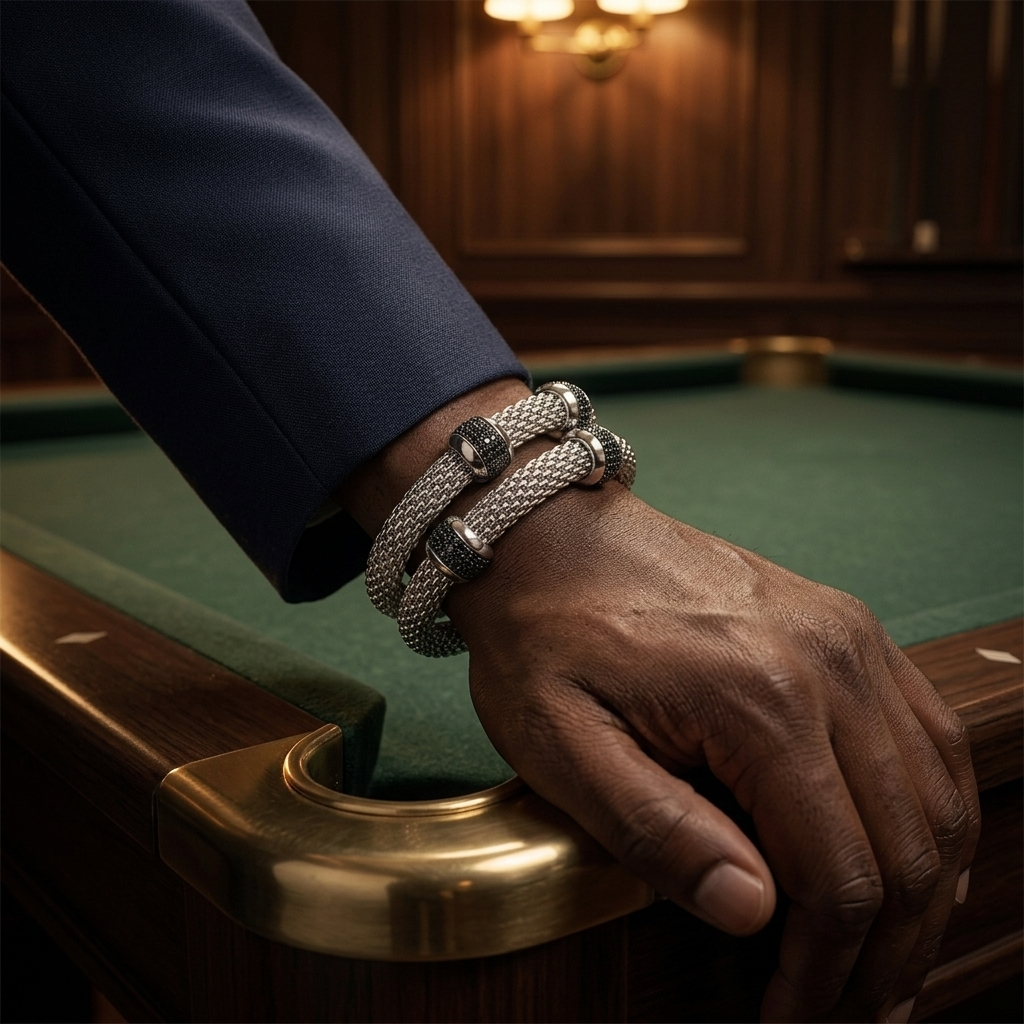
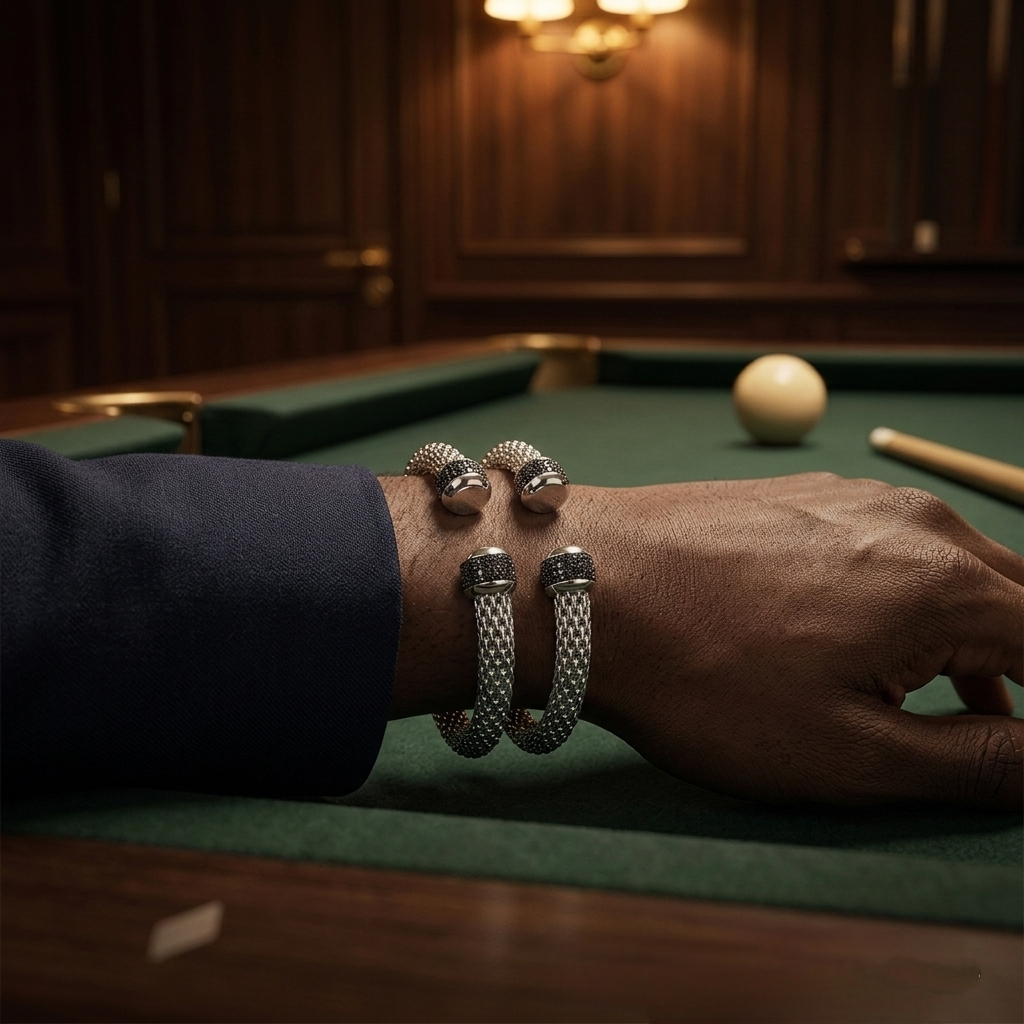
auto-commit for e5a2164d-bee8-4c5e-9aef-081621abe954

diff --git a/frontend/src/data/products.js b/frontend/src/data/products.js
@@ -2551,20 +2551,22 @@ This is expression — under control.`,
     },
 
     // STRICT CAMPAIGN LOCK — 7 approved angles, exact order:
+    // DESIGN: SLIP-ON OPEN CUFF (C-shape) with EXACTLY TWO black-diamond pavé
+    //         END CAPS at the open terminals. NO middle pavé, NO third station.
     // 1. HERO STACK         — two cuffs on pool table (user's authentic photo)
-    // 2. SINGLE HERO OBJECT — single cuff on green felt, low 3/4
-    // 3. ON-WRIST ONE       — Black model, navy/black wardrobe, ONE cuff
-    // 4. DOUBLE STACK WRIST — Black model, TWO cuffs stacked, billiard table
-    // 5. MACRO DETAIL       — woven texture + black pavé cap close-up
-    // 6. SIDE PROFILE       — low side angle, cuff thickness + structure
-    // 7. LIFESTYLE TABLE    — single cuff w/ cue + whiskey + blurred ball
+    // 2. SINGLE HERO OBJECT — single open cuff on green felt, low 3/4
+    // 3. ON-WRIST ONE       — Black model, navy/black wardrobe, ONE open cuff
+    // 4. DOUBLE STACK WRIST — Black model, TWO open cuffs stacked, billiard table
+    // 5. MACRO DETAIL       — close-up of one black-diamond end cap meeting the weave
+    // 6. SIDE PROFILE       — low side angle showing the C-shape and both end caps
+    // 7. LIFESTYLE TABLE    — single open cuff w/ cue + whiskey + blurred ball
     gallery: [
       { src: "/midweek/01_hero.png",            alt: "MIDWEEK — hero stack on pool table" },
-      { src: "/midweek/02_single_felt.png",     alt: "MIDWEEK — single cuff on green felt" },
-      { src: "/midweek/03_on_wrist_solo.png",   alt: "MIDWEEK — on-wrist editorial (solo)" },
+      { src: "/midweek/02_single_felt.png",     alt: "MIDWEEK — single open cuff on green felt" },
+      { src: "/midweek/03_on_wrist_solo.png",   alt: "MIDWEEK — on-wrist editorial (solo, slip-on)" },
       { src: "/midweek/04_on_wrist_stack.png",  alt: "MIDWEEK — double stack on wrist" },
-      { src: "/midweek/04_macro.png",           alt: "MIDWEEK — macro detail (black-diamond barrel)" },
-      { src: "/midweek/05_detail.png",          alt: "MIDWEEK — side profile (mesh weave structure)" },
+      { src: "/midweek/05_macro.png",           alt: "MIDWEEK — macro detail (black-diamond end cap)" },
+      { src: "/midweek/06_side_profile.png",    alt: "MIDWEEK — side profile (open C-shape)" },
       { src: "/midweek/07_lifestyle_table.png", alt: "MIDWEEK — lifestyle table (cue, whiskey, blurred ball)" },
     ],
 

diff --git a/backend/scripts/generate_midweek_v3.py b/backend/scripts/generate_midweek_v3.py
@@ -1,0 +1,237 @@
+"""
+MIDWEEK v3 — design correction.
+
+NEW design lock:
+  • SLIP-ON OPEN CUFF (C-shape, not a closed bangle)
+  • EXACTLY TWO black-diamond pavé END CAPS — one at each open terminal
+  • NO middle pavé, NO third or fourth station, NO beads around the body
+  • Continuous polished sterling silver woven mesh body between the two caps
+
+Regen targets (all 6 AI shots — slot 1 user photo is preserved):
+  02_single_felt        — single cuff on green felt, low 3/4
+  03_on_wrist_solo      — Black model, 1 slip-on cuff, navy/black wardrobe
+  04_on_wrist_stack     — Black model, 2 slip-on cuffs stacked
+  05_macro              — macro on one end cap meeting the weave
+  06_side_profile       — low side angle showing the C-shape and both end caps
+  07_lifestyle_table    — single cuff with cue + whiskey + blurred ball
+"""
+from __future__ import annotations
+
+import asyncio
+import base64
+import os
+import sys
+import uuid
+from pathlib import Path
+
+from dotenv import load_dotenv
+from emergentintegrations.llm.chat import LlmChat, UserMessage, ImageContent
+
+load_dotenv("/app/backend/.env")
+
+REF = Path("/app/frontend/public/midweek/_reference.png")
+OUT_DIR = Path("/app/frontend/public/midweek")
+
+PRODUCT_LOCK = (
+    "MIDWEEK CUFF — strict design lock. The reference image is for SILVER "
+    "WEAVE TEXTURE only — IGNORE the number and placement of any pavé "
+    "sections in the reference. The actual product is:\n\n"
+    "FORM: SLIP-ON OPEN CUFF, C-shape. The cuff is NOT a closed circular "
+    "bangle. It has two visible OPEN ENDS where the wearer slips it on / "
+    "off the wrist. There is a deliberate small gap between the two open "
+    "ends.\n\n"
+    "PAVÉ — EXACTLY TWO black-diamond pavé END CAPS:\n"
+    "  • ONE black-diamond pavé cap terminates the LEFT open end of the cuff\n"
+    "  • ONE black-diamond pavé cap terminates the RIGHT open end of the cuff\n"
+    "  • TOTAL: TWO pavé sections, BOTH at the open terminals, NEVER any in "
+    "the middle, NEVER a third or fourth station, NEVER beads around the body.\n\n"
+    "BODY: rugged polished sterling silver woven MESH (round-rope chain-mail "
+    "texture). Continuous silver from end-cap to end-cap with no breaks, no "
+    "extra pavé collars, no middle bands. Bright polished finish.\n\n"
+    "MATERIAL: bright polished sterling silver. NO yellow gold, NO rose gold, "
+    "NO gunmetal."
+)
+
+GLOBAL_STYLE = (
+    "MIDWEEK visual identity: dark billiard-room atmosphere, warm tungsten "
+    "lighting, late-night luxury, quiet masculine confidence — successful "
+    "people disappearing for a few quiet hours midweek.\n\n"
+    "Cinematic shadows, controlled specular highlights on the silver weave, "
+    "preserved silver realism, preserved woven texture detail. Editorial "
+    "men's luxury campaign quality, 8K photoreal.\n\n"
+    "DO NOT: tropical elements, neon club lighting, overexposed silver, "
+    "flashy luxury clichés, unnecessary props, nightlife advertising feel, "
+    "logos, watermarks, text, engravings.\n\n"
+    "FAIL if: more than 2 black-diamond sections appear on any cuff, OR if "
+    "the cuff is rendered as a closed circular bangle without a visible gap."
+)
+
+SHOTS = [
+    {
+        "slug": "02_single_felt",
+        "title": "ANGLE 2 — SINGLE HERO OBJECT",
+        "prompt": (
+            "Single MIDWEEK slip-on cuff isolated alone on deep GREEN BILLIARD "
+            "FELT — no other props in frame. Low 3/4 camera angle slightly "
+            "above the felt. Both BLACK PAVÉ END CAPS clearly visible at the "
+            "two open terminals; the cuff lies with its open gap rotated "
+            "slightly toward camera so both caps catch warm tungsten light. "
+            "Continuous silver weave runs from one cap to the other. Tight "
+            "composition, cuff dominates the frame, soft fall-off into "
+            "darker felt around the edges.\n\n"
+            "RULE: ONE open cuff, EXACTLY TWO end-cap pavé sections, no "
+            "middle pavé."
+        ),
+    },
+    {
+        "slug": "03_on_wrist_solo",
+        "title": "ANGLE 3 — ON-WRIST EDITORIAL (BLACK MODEL, ONE OPEN CUFF)",
+        "prompt": (
+            "Editorial on-wrist photograph of a BLACK MAN wearing ONE slip-on "
+            "MIDWEEK cuff on his wrist. Subject's wardrobe is NAVY or BLACK "
+            "wool — fine knit sleeve or tailored shirt cuff. Posture relaxed "
+            "and natural; the cuff is worn, not displayed. The OPEN GAP of "
+            "the cuff sits at the underside of the wrist (anatomically correct "
+            "for a slip-on cuff). At least ONE black-diamond pavé end cap is "
+            "clearly visible from the camera angle; the second end cap may "
+            "wrap around the wrist out of frame. Silver weave catches a "
+            "single warm rim-light. Warm tungsten lounge background, softly "
+            "out of focus.\n\n"
+            "RULE: ONE open cuff with ONLY two end-cap pavé sections. No "
+            "middle pavé. Subject must be a Black man in navy or black."
+        ),
+    },
+    {
+        "slug": "04_on_wrist_stack",
+        "title": "ANGLE 4 — DOUBLE STACK ON WRIST (BLACK MODEL, TWO OPEN CUFFS)",
+        "prompt": (
+            "Editorial on-wrist photograph of a BLACK MAN wearing TWO MIDWEEK "
+            "slip-on cuffs stacked together on the same wrist. Both cuffs are "
+            "open C-shape; their open gaps are oriented in the SAME DIRECTION "
+            "(both gaps facing the underside of the wrist), giving a clean "
+            "parallel stack. The two cuffs sit close — minimal spacing, "
+            "intentionally stacked. Wrist relaxed on the edge of a deep GREEN "
+            "BILLIARD TABLE; wooden rail of the table partially visible. "
+            "Wardrobe: navy or black wool sleeve, fine and refined. Warm "
+            "tungsten lounge lighting, softly bokeh'd background. The polished "
+            "silver weave of both cuffs catches a single warm rim-light.\n\n"
+            "Each cuff has EXACTLY TWO black-diamond pavé end caps (one at "
+            "each open terminal). NO middle pavé on either cuff.\n\n"
+            "RULE: EXACTLY TWO cuffs on the wrist (one stack of two). Each "
+            "cuff has only TWO end-cap pavé sections. No watch, no other "
+            "jewelry, no cigar, no glass in hand."
+        ),
+    },
+    {
+        "slug": "05_macro",
+        "title": "ANGLE 5 — MACRO DETAIL",
+        "prompt": (
+            "Extreme macro detail of ONE BLACK-DIAMOND PAVÉ END CAP at the "
+            "open terminal of a slip-on MIDWEEK cuff, transitioning into the "
+            "polished sterling silver woven body. Sharp focus on a small "
+            "section of the pavé black diamonds and the polished silver bevel "
+            "where the cap meets the weave. Mesh weave visible behind the "
+            "cap, falling into soft bokeh. Very shallow depth of field. Warm "
+            "directional tungsten reflections. Shows craftsmanship — pavé "
+            "stone density, bevel finishing, weave texture.\n\n"
+            "RULE: only ONE end cap visible (or partial second cap softly "
+            "out of focus in deep bokeh). NO middle pavé visible anywhere "
+            "in the body. Single cuff."
+        ),
+    },
+    {
+        "slug": "06_side_profile",
+        "title": "ANGLE 6 — SIDE PROFILE",
+        "prompt": (
+            "Low side-angle photograph of a single MIDWEEK slip-on cuff on a "
+            "deep walnut or black surface. The C-SHAPE of the open cuff is "
+            "the focal subject — the viewer must immediately read this as a "
+            "slip-on, NOT a closed bangle. BOTH black-diamond end caps are "
+            "visible at the open terminals. Side rim-light skims across the "
+            "polished silver weave, the inner curve casts a deep ambient "
+            "shadow. Shows wearability clarity: cuff thickness, weave depth, "
+            "and end-cap construction.\n\n"
+            "RULE: ONE open C-shape cuff. EXACTLY two end-cap pavé sections. "
+            "The open gap MUST be visible. No middle pavé."
+        ),
+    },
+    {
+        "slug": "07_lifestyle_table",
+        "title": "ANGLE 7 — LIFESTYLE TABLE",
+        "prompt": (
+            "Single MIDWEEK slip-on cuff resting alone on dark GREEN BILLIARD "
+            "FELT. Partially out of focus in the same frame: a wooden CUE "
+            "STICK laid diagonally, a CRYSTAL WHISKEY GLASS catching warm "
+            "tungsten reflection, and a SOFTLY BLURRED billiard ball in the "
+            "distance. The cuff is the BRIGHTEST OBJECT — props recede into "
+            "deep shadow. Both BLACK PAVÉ END CAPS are visible at the open "
+            "terminals; continuous silver weave runs between them. "
+            "Composition restrained, props supporting, not crowding.\n\n"
+            "RULE: ONE open slip-on cuff with EXACTLY two end-cap pavé "
+            "sections. No middle pavé."
+        ),
+    },
+]
+
+
+async def generate_one(api_key: str, ref_b64: str, shot: dict) -> bool:
+    out_path = OUT_DIR / f"{shot['slug']}.png"
+    prompt = (
+        f"{PRODUCT_LOCK}\n\n"
+        f"SHOT — {shot['title']}:\n{shot['prompt']}\n\n"
+        f"GLOBAL STYLE: {GLOBAL_STYLE}"
+    )
+
+    chat = LlmChat(
+        api_key=api_key,
+        session_id=f"midweek-v3-{shot['slug']}-{uuid.uuid4().hex[:8]}",
+        system_message=(
+            "You are a luxury men's editorial campaign photographer. The "
+            "product is a SLIP-ON OPEN CUFF (C-shape) with EXACTLY TWO black-"
+            "diamond pavé end caps at the open terminals — never more, never "
+            "less, never in the middle. The reference image's pavé layout is "
+            "WRONG and should be ignored; only use it for silver weave texture. "
+            "Render the cuff as a slip-on with a visible open gap. No logos, "
+            "no text, no watermark."
+        ),
+    )
+    chat.with_model("gemini", "gemini-3.1-flash-image-preview").with_params(
+        modalities=["image", "text"]
+    )
+
+    msg = UserMessage(text=prompt, file_contents=[ImageContent(ref_b64)])
+    text, images = await chat.send_message_multimodal_response(msg)
+
+    if not images:
+        print(f"[FAIL] {shot['slug']} — no image. text={(text or '')[:200]!r}")
+        return False
+
+    out_path.write_bytes(base64.b64decode(images[0]["data"]))
+    print(f"[ok]   {shot['slug']} -> {out_path} ({out_path.stat().st_size//1024} KB)")
+    return True
+
+
+async def main(slugs: list[str] | None = None) -> int:
+    api_key = os.getenv("EMERGENT_LLM_KEY")
+    if not api_key:
+        print("EMERGENT_LLM_KEY missing", file=sys.stderr); return 1
+    if not REF.exists():
+        print(f"Reference missing: {REF}", file=sys.stderr); return 2
+
+    ref_b64 = base64.b64encode(REF.read_bytes()).decode("utf-8")
+
+    todo = [s for s in SHOTS if (slugs is None or s["slug"] in slugs)]
+    for shot in todo:
+        try:
+            await generate_one(api_key, ref_b64, shot)
+        except Exception as e:  # noqa: BLE001
+            print(f"[ERR] {shot['slug']} — {type(e).__name__}: {e}")
+            if "Budget" in str(e) or "BadRequest" in str(e):
+                print("[stop] budget cap likely; halting.")
+                break
+    return 0
+
+
+if __name__ == "__main__":
+    args = sys.argv[1:] or None
+    sys.exit(asyncio.run(main(args)))
